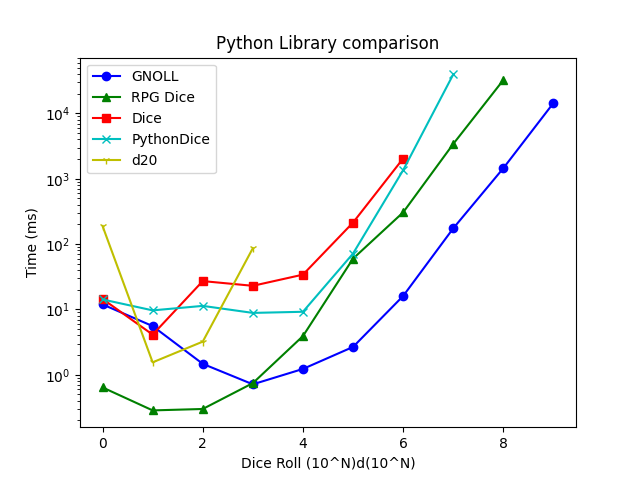
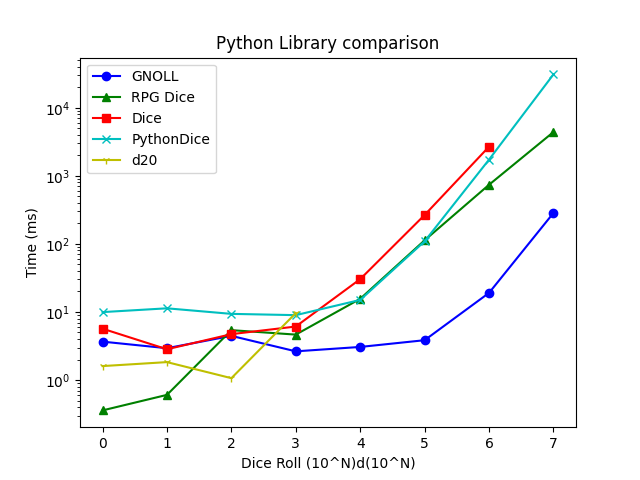
new py diagram

diff --git a/scripts/benchmark/benchmark.py b/scripts/benchmark/benchmark.py
@@ -24,8 +24,8 @@ def pythondice_roll(s):
 # X axis = Roll
 # Y axis = Time
 
-shared_x = range(0, 10)
-TIMEOUT = 300
+shared_x = range(0, 8)
+TIMEOUT = 100
 
 configurations = {
     "GNOLL": {
@@ -56,6 +56,9 @@ configurations = {
     }
 }
 
+PROFILE_NUM = 50
+print(f"Averaging over {PROFILE_NUM} runs")
+
 # Data gather
 for key in configurations:
     print("Profiling: ", key)
@@ -73,12 +76,21 @@ for key in configurations:
         print(f"\t{r}")
         roll_fn = c["roll_fn"]
         try:
-            time1 = time.time()
-            func_timeout.func_timeout(
-                TIMEOUT, roll_fn, args=[r]
-            )
-            time2 = time.time()
-            total_time = time2 - time1
+            total_time = []
+            
+            # Averaged
+            count = 0
+            for _ in range(PROFILE_NUM):
+                count += 1
+                time1 = time.time()
+                func_timeout.func_timeout(
+                    TIMEOUT, roll_fn, args=[r]
+                )
+                time2 = time.time()
+                total_time.append(time2 - time1)
+                if sum(total_time) > TIMEOUT:
+                    break
+            total_time = sum(total_time)/count
             y.append(total_time*1000)
             dx.append(x)
         except (Exception, func_timeout.FunctionTimedOut) as e:

diff --git a/src/grammar/safe_functions.c b/src/grammar/safe_functions.c
@@ -69,6 +69,16 @@ char * safe_strdup( const char *str1 ){
     return result;
 }
 
+int fast_atoi( const char * str )
+{
+    //Ref: https://stackoverflow.com/a/16826908/1421555
+    int val = 0;
+    while( *str ) {
+        val = val*10 + (*str++ - '0');
+    }
+    return val;
+}
+
 long int safe_strtol (const char* str, char** endptr, int base){
     if (gnoll_errno){
         // If there was already an error,

diff --git a/src/grammar/safe_functions.h b/src/grammar/safe_functions.h
@@ -25,4 +25,7 @@ FILE * safe_fopen(const char *filename, const char *mode);
 char * safe_strdup( const char *str1 );
 long int safe_strtol (const char* str, char** endptr, int base);
 
+
+int fast_atoi( const char * str );
+
 #endif
